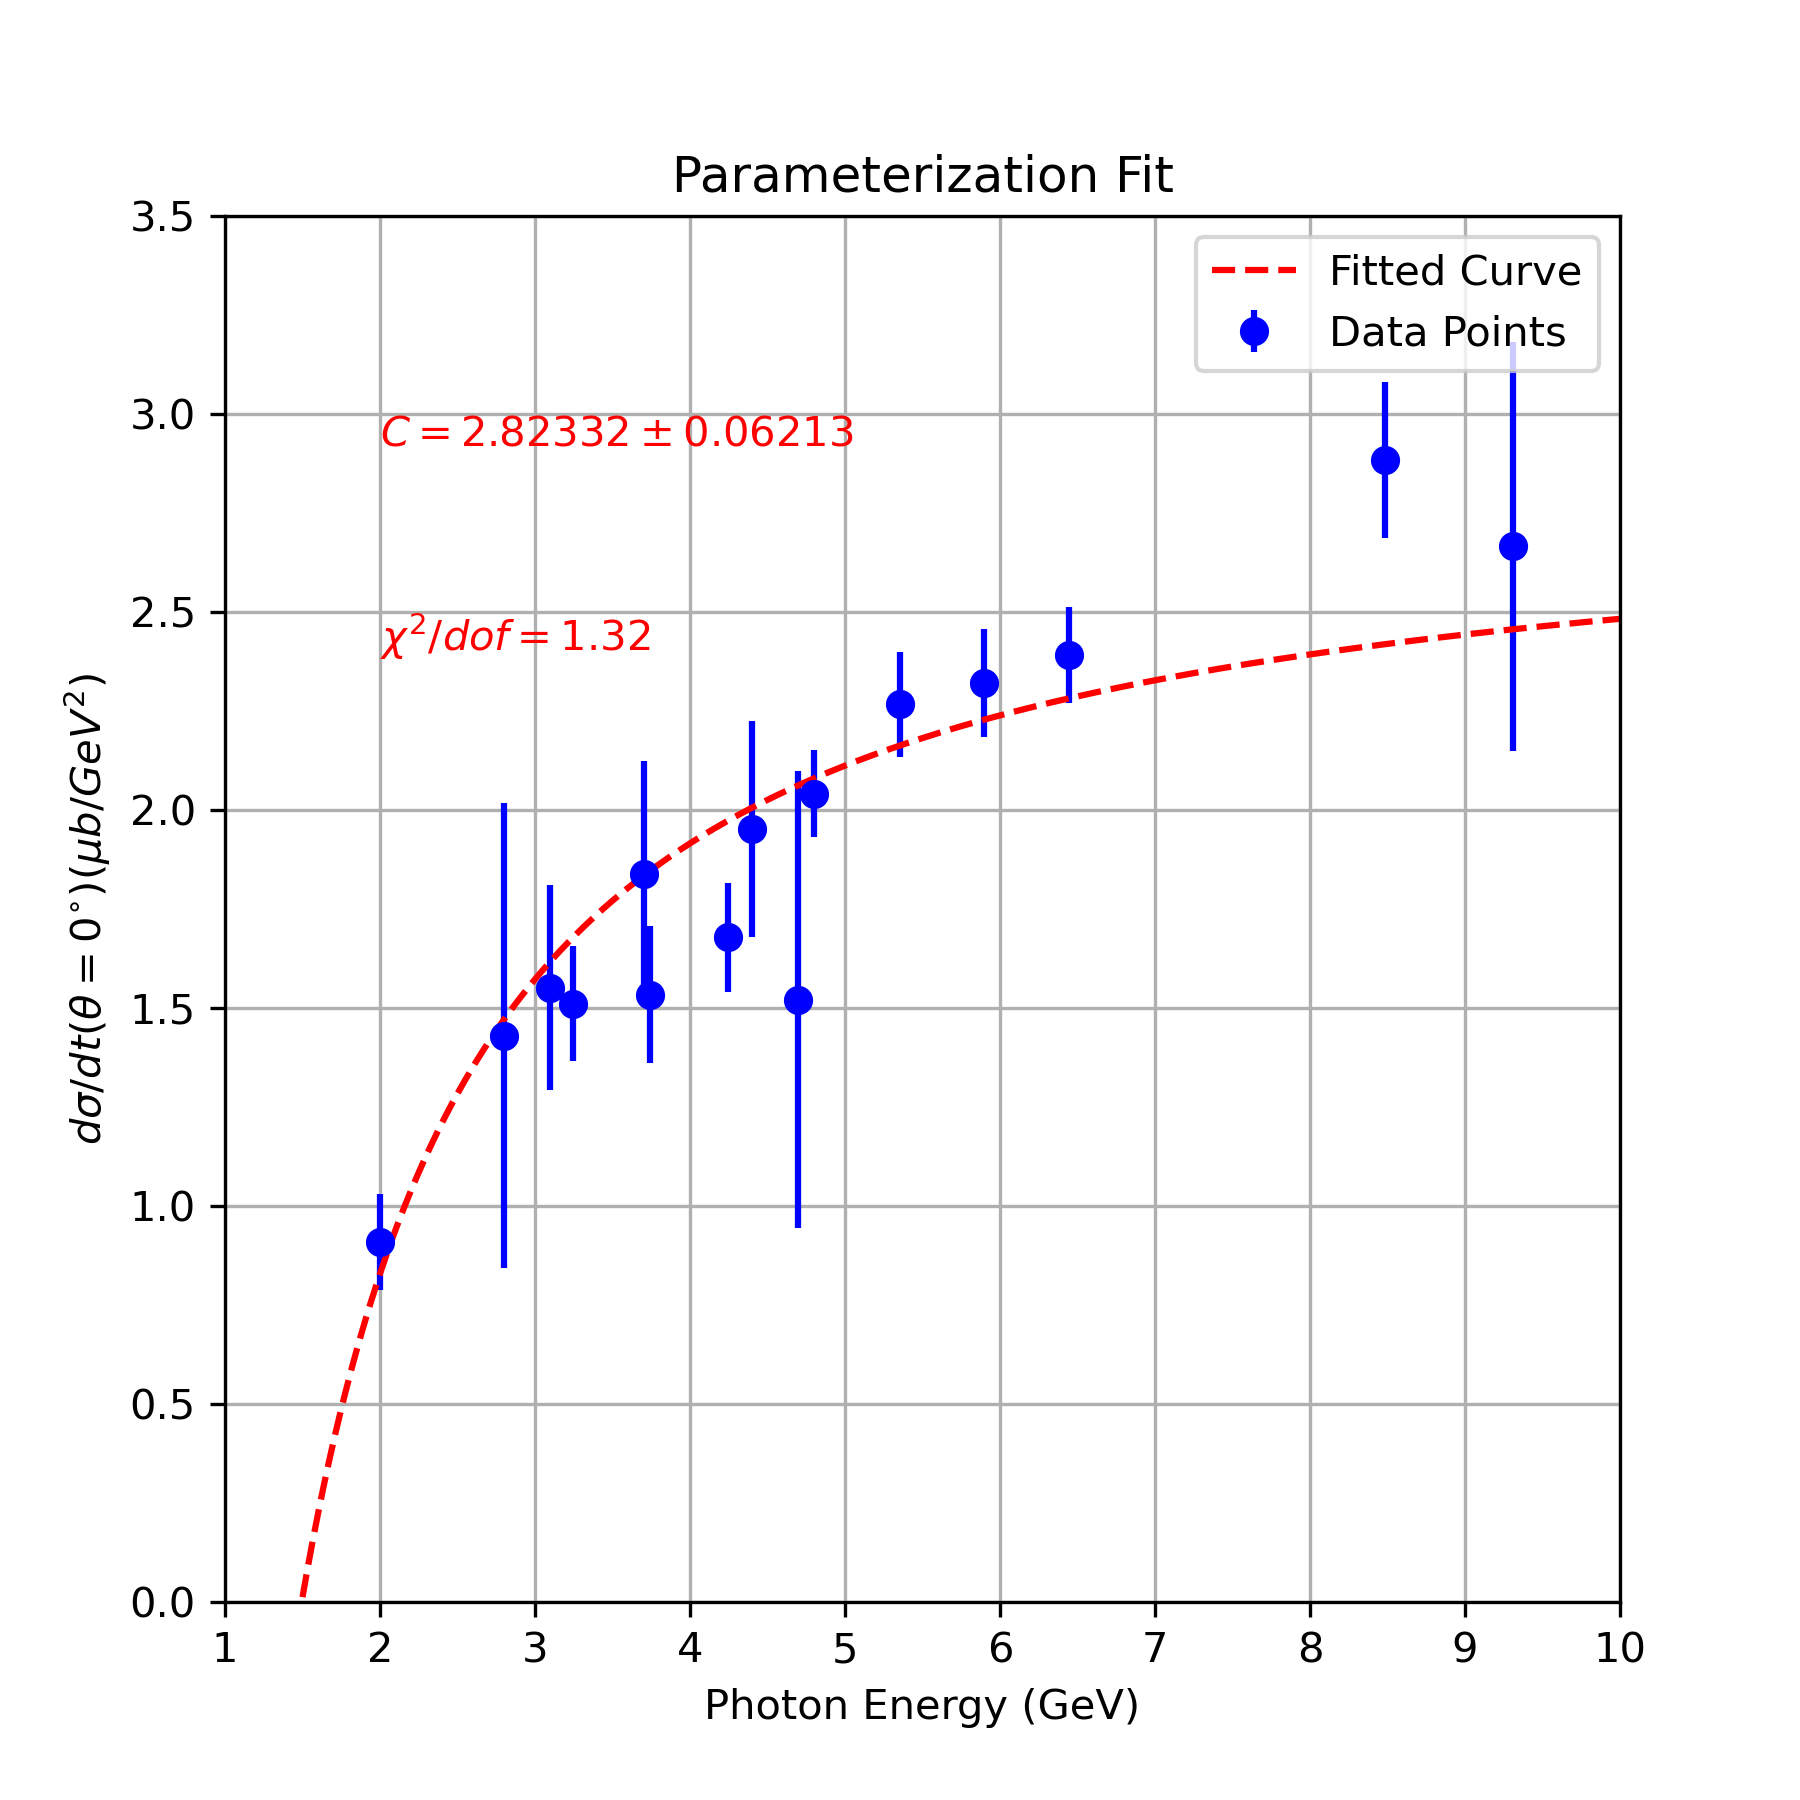
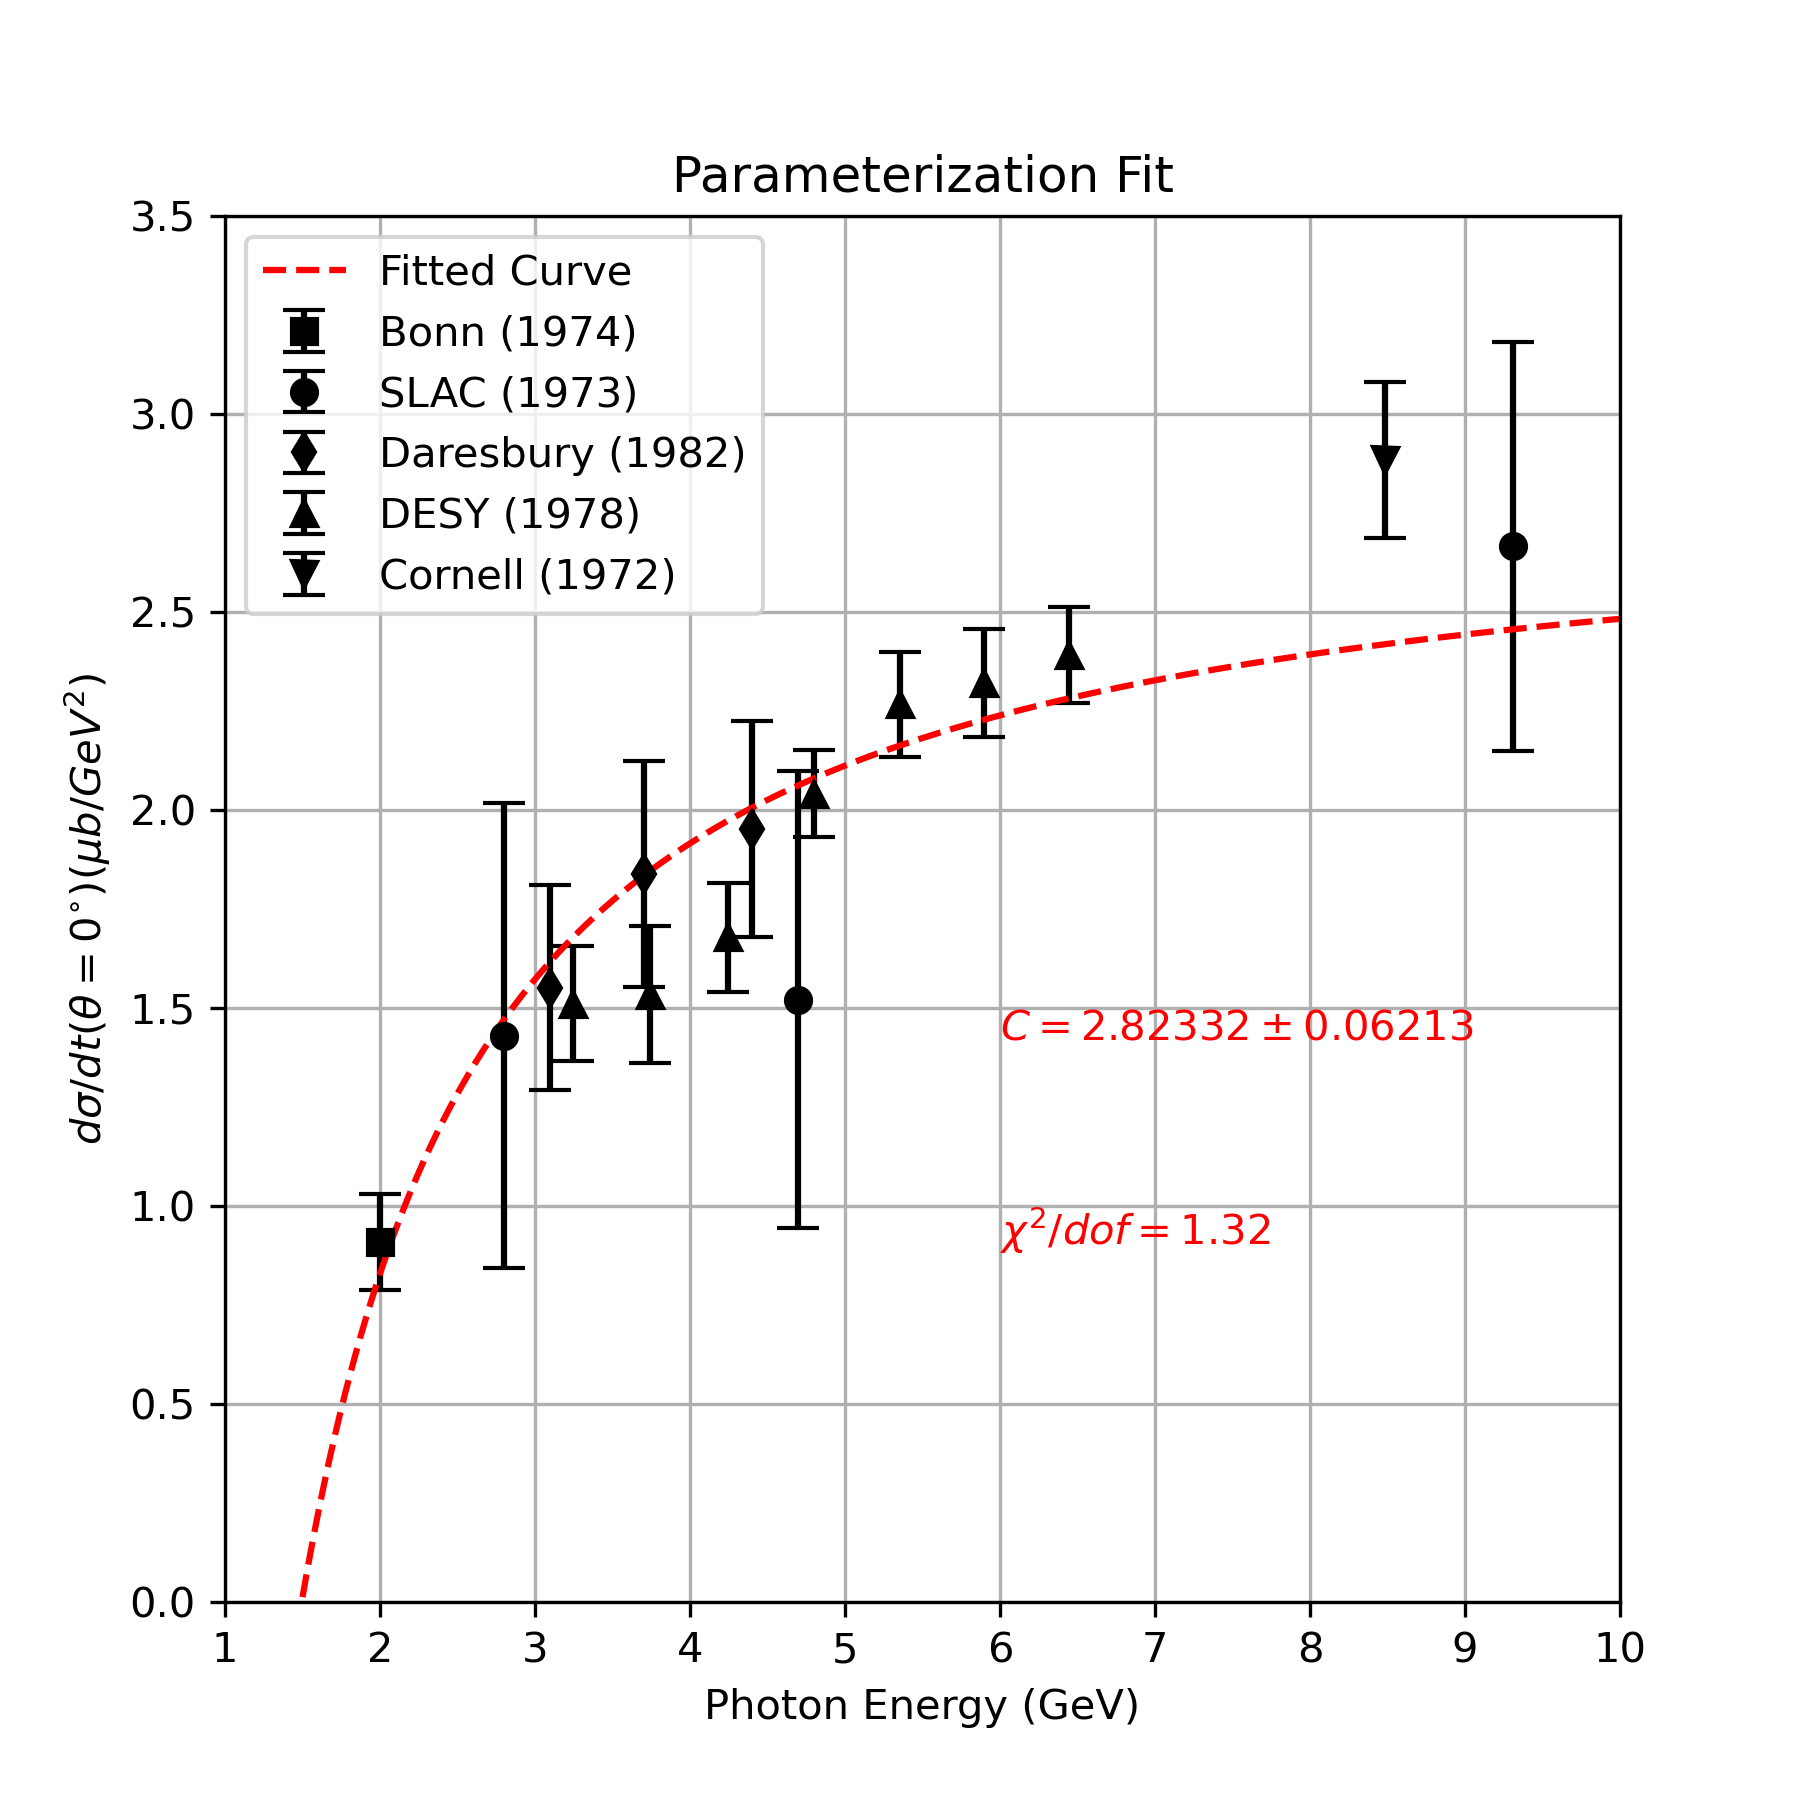
Edit plotting style to show different sources of data points

diff --git a/plot/vm_d/theory/parameterization/fit.py b/plot/vm_d/theory/parameterization/fit.py
@@ -46,13 +46,17 @@ q_phi_plot = np.sqrt(kallen(s_plot, mass_proton**2, mass_phi**2))/(2*np.sqrt(s_p
 x_plot = (q_phi_plot/q_photon_plot)**2
 dsdt_plot = fit_function(x_plot, *coefficients)
 # dsdt_plot = fit_function(x_plot, 2.93)
-plt.errorbar(energy, dsdt, yerr=dsdt_error, color='b', label='Data Points', fmt='o')
+plt.errorbar(energy[0], dsdt[0], yerr=dsdt_error[0], color='k', label='Bonn (1974)', fmt='s', capsize=5)
+plt.errorbar(energy[1:4], dsdt[1:4], yerr=dsdt_error[1:4], color='k', label='SLAC (1973)', fmt='o', capsize=5)
+plt.errorbar(energy[4:7], dsdt[4:7], yerr=dsdt_error[4:7], color='k', label='Daresbury (1982)', fmt='d', capsize=5)
+plt.errorbar(energy[7:14], dsdt[7:14], yerr=dsdt_error[7:14], color='k', label='DESY (1978)', fmt='^', capsize=5)
+plt.errorbar(energy[14], dsdt[14], yerr=dsdt_error[14], color='k', label='Cornell (1972)', fmt='v', capsize=5)
 plt.plot(energy_plot, dsdt_plot, color='r', linestyle='--', label='Fitted Curve')
 plt.title('Parameterization Fit')
 plt.xlabel('Photon Energy (GeV)')
 plt.ylabel(r'$d\sigma/dt(\theta=0^{\circ})(\mu b/GeV^2)$')
-plt.text(2, 3, r'$C=%.5f\pm%.5f$' % (coefficients[0], np.sqrt(pcov[0][0])), fontsize=10, color='r', ha='left', va='top')
-plt.text(2, 2.5, r'$\chi^2/dof=%.2f$' % chisquared_per_dof, fontsize=10, color='r', ha='left', va='top')
+plt.text(6, 1.5, r'$C=%.5f\pm%.5f$' % (coefficients[0], np.sqrt(pcov[0][0])), fontsize=10, color='r', ha='left', va='top')
+plt.text(6, 1.0, r'$\chi^2/dof=%.2f$' % chisquared_per_dof, fontsize=10, color='r', ha='left', va='top')
 plt.xlim(1.0, 10.0)
 plt.ylim(0, 3.5)
 # plt.yscale('log')
